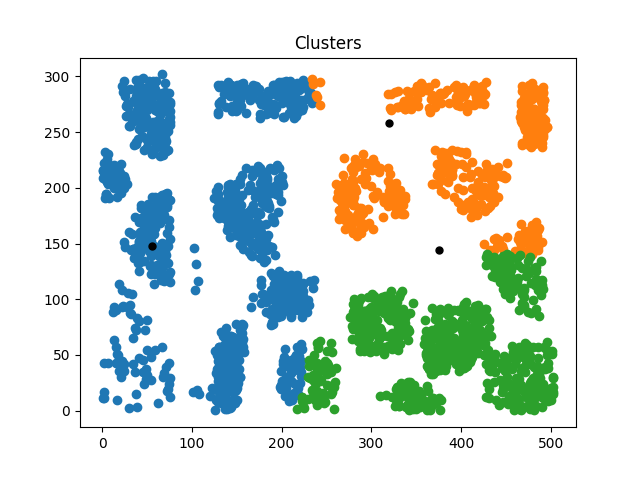
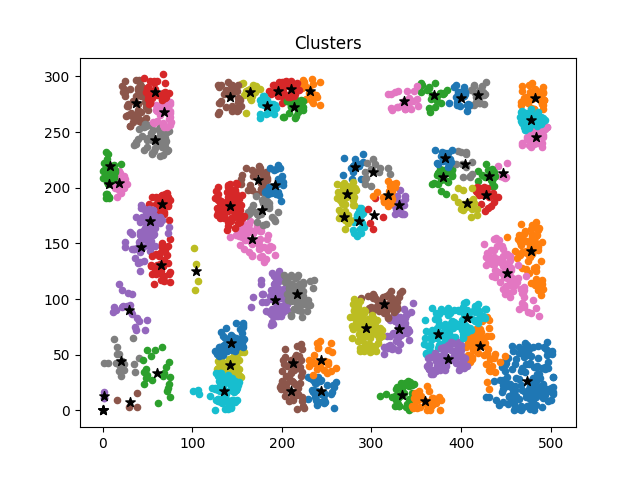
update main.py with 75

diff --git a/graph/main.py b/graph/main.py
@@ -36,10 +36,10 @@ def draw_clusters(posiciones_centroides, clusteres, graph_name):
     for cluster in clusteres:
         x = [punto[0] for punto in cluster]
         y = [punto[1] for punto in cluster]
-        plt.scatter(x, y)
+        plt.scatter(x, y, s=20)
     # Dibujar los centroides
     for x, y in posiciones_centroides:
-        plt.scatter(x, y, marker='.', color='black', s=100)
+        plt.scatter(x, y, marker='*', color='black', s=50)
     plt.title("Clusters")
     plt.savefig(graph_name)
     plt.show()

diff --git a/main.cpp b/main.cpp
@@ -17,7 +17,7 @@ int main(){
     cout << "Points readed: " << points.size() << endl;
 
     
-    Kmeans<3> kmeans(points);
+    Kmeans<75> kmeans(points);
     kmeans.printCentroides();
 
     //vector<vector<Point2D>> clusters = kmeans.KMeans_def(points);
